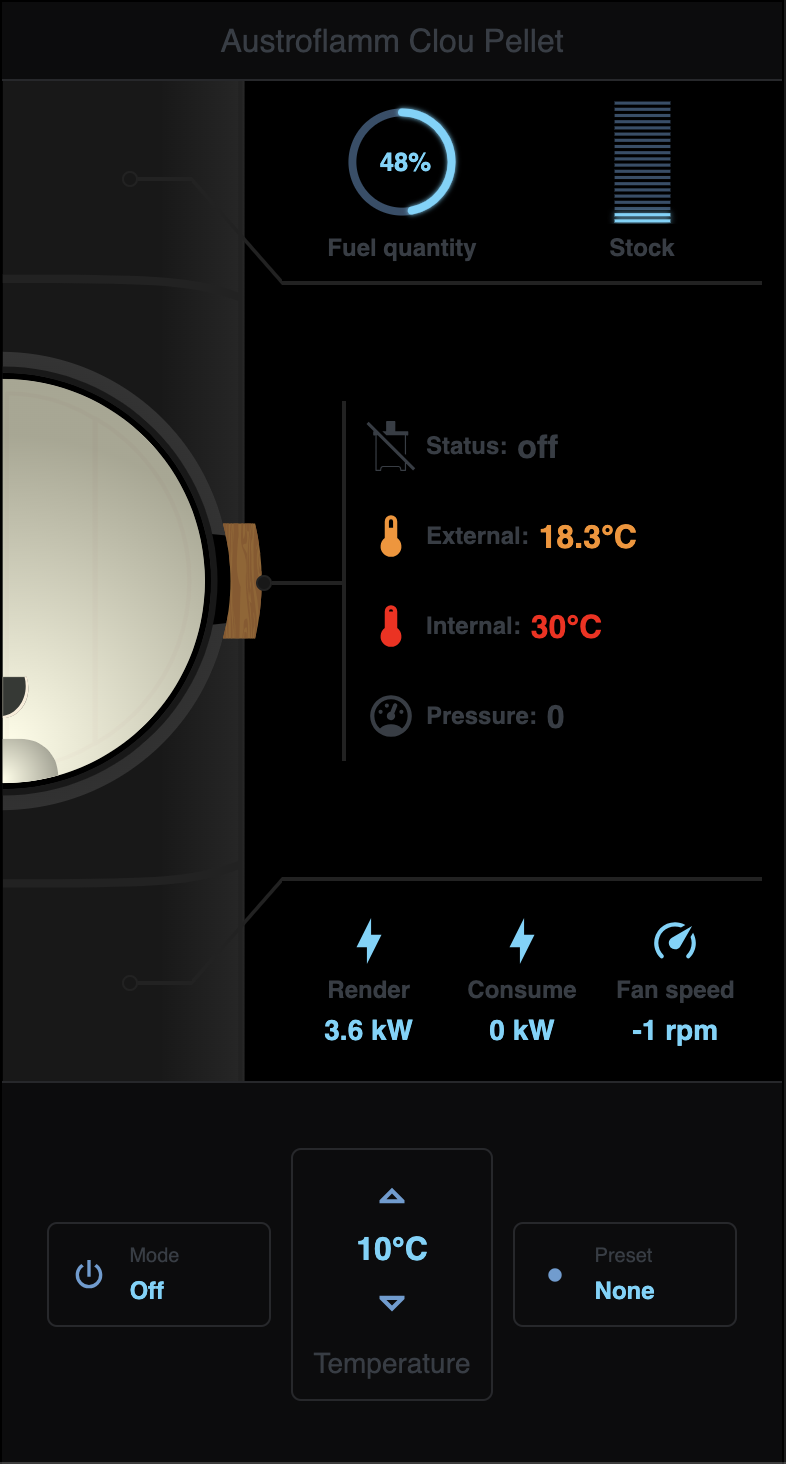
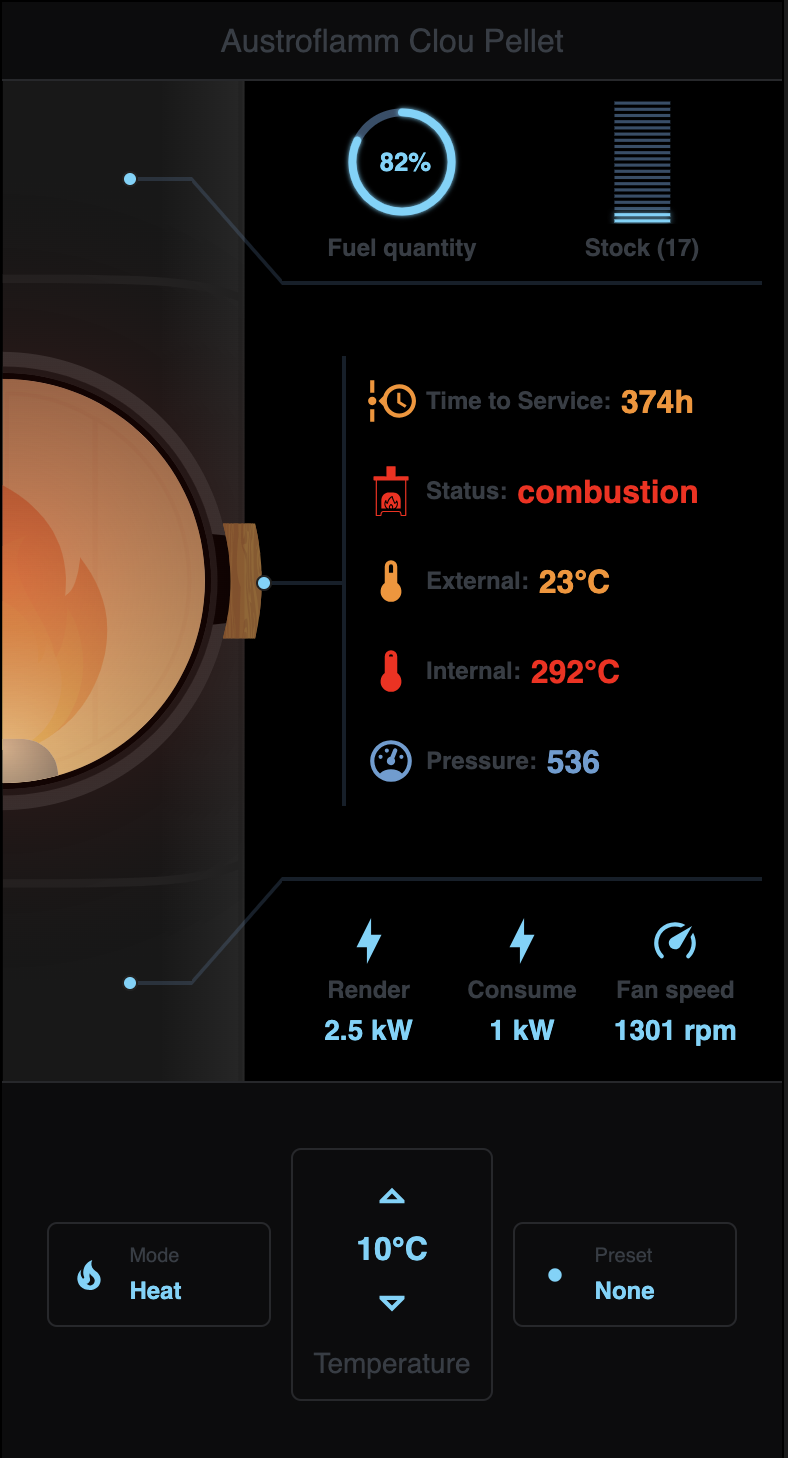
Stove doc update

diff --git a/README.md b/README.md
@@ -724,10 +724,10 @@ Stove package card, display your `climate.<stove>` in order you can see informat
 From top to bottom, display:
 - Global information:
   - Stove friendly name
-  - Graphical stove state
+  - Graphical stove state (cool, heat & off)
   - Storage and fuel quantity
-  - State and associated temperarures
-  - Energy consumed & rendered
+  - Global sensor information such as state, pressure, time to service & associated temperarures
+  - Energy consumed / rendered & fan speed
 - Stove actions: mode, temperature and preset
 
 ### Screenshots
@@ -738,6 +738,7 @@ From top to bottom, display:
 <img src="https://github.com/adrien-parasote/ha-sci-fi/blob/main/screenshot/stove_1.jpeg" width="300">
 <img src="https://github.com/adrien-parasote/ha-sci-fi/blob/main/screenshot/stove_2.jpeg" width="300">
 <img src="https://github.com/adrien-parasote/ha-sci-fi/blob/main/screenshot/stove_3.jpeg" width="300">
+<img src="https://github.com/adrien-parasote/ha-sci-fi/blob/main/screenshot/stove_4.jpeg" width="300">
 <img src="https://github.com/adrien-parasote/ha-sci-fi/blob/main/screenshot/stove_edit_1.jpeg" width="300">
 <img src="https://github.com/adrien-parasote/ha-sci-fi/blob/main/screenshot/stove_edit_2.jpeg" width="300">
 
